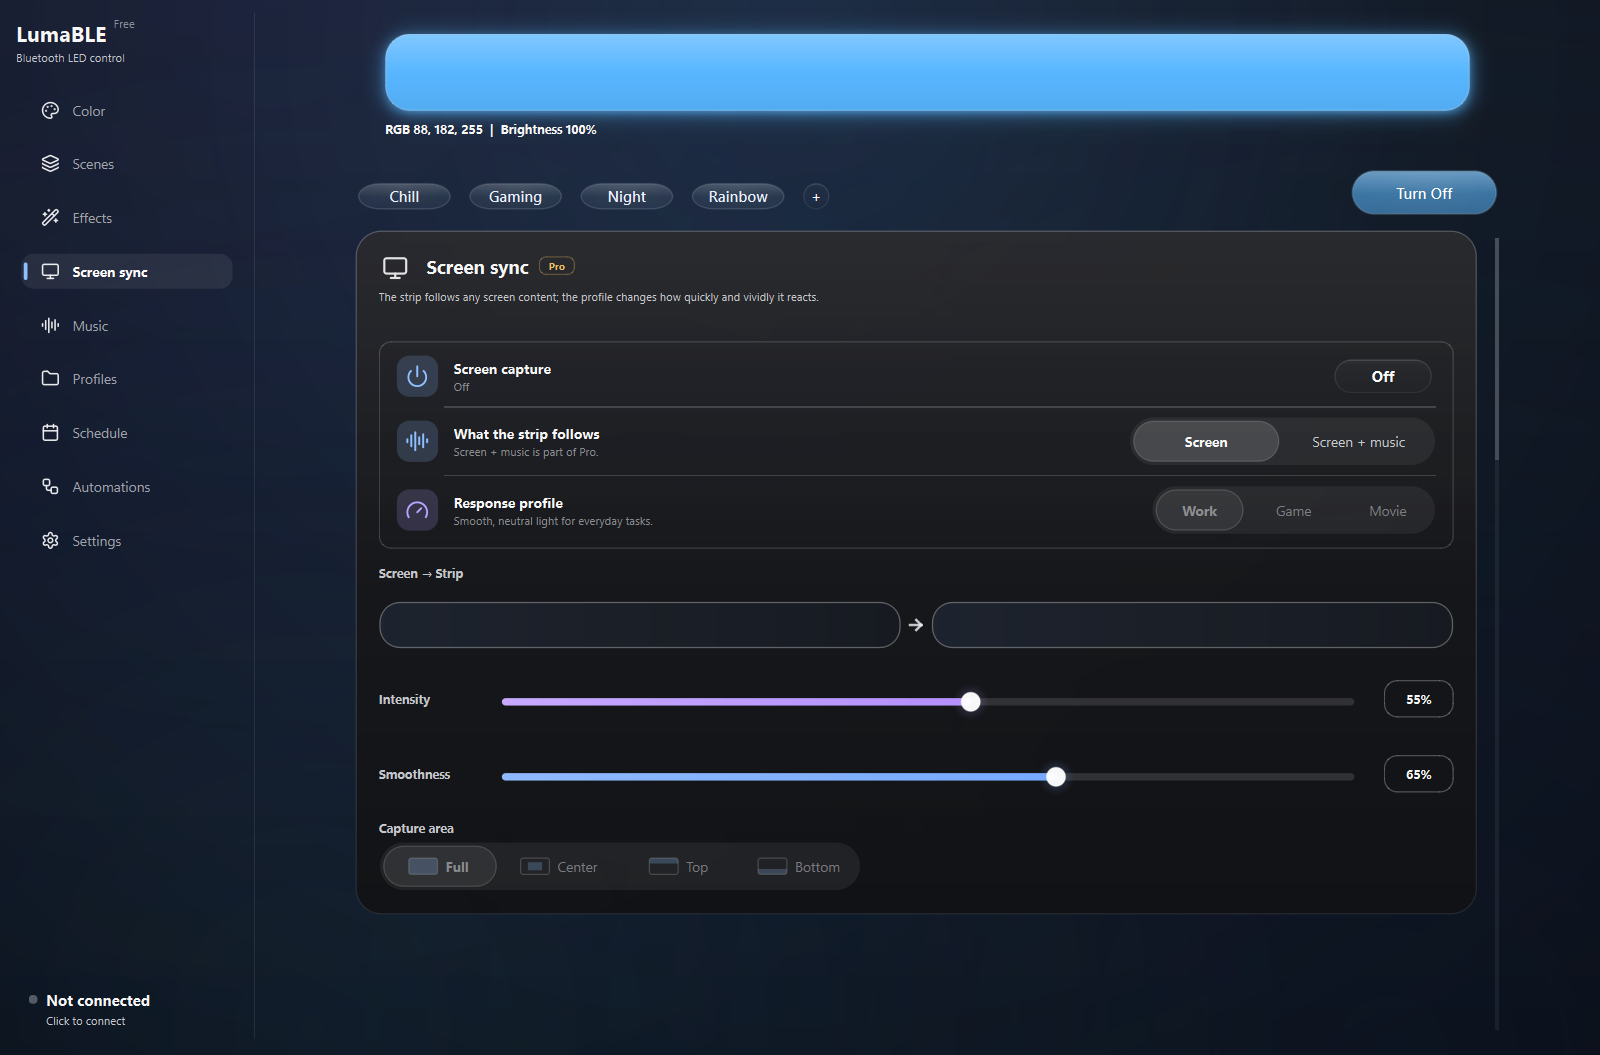
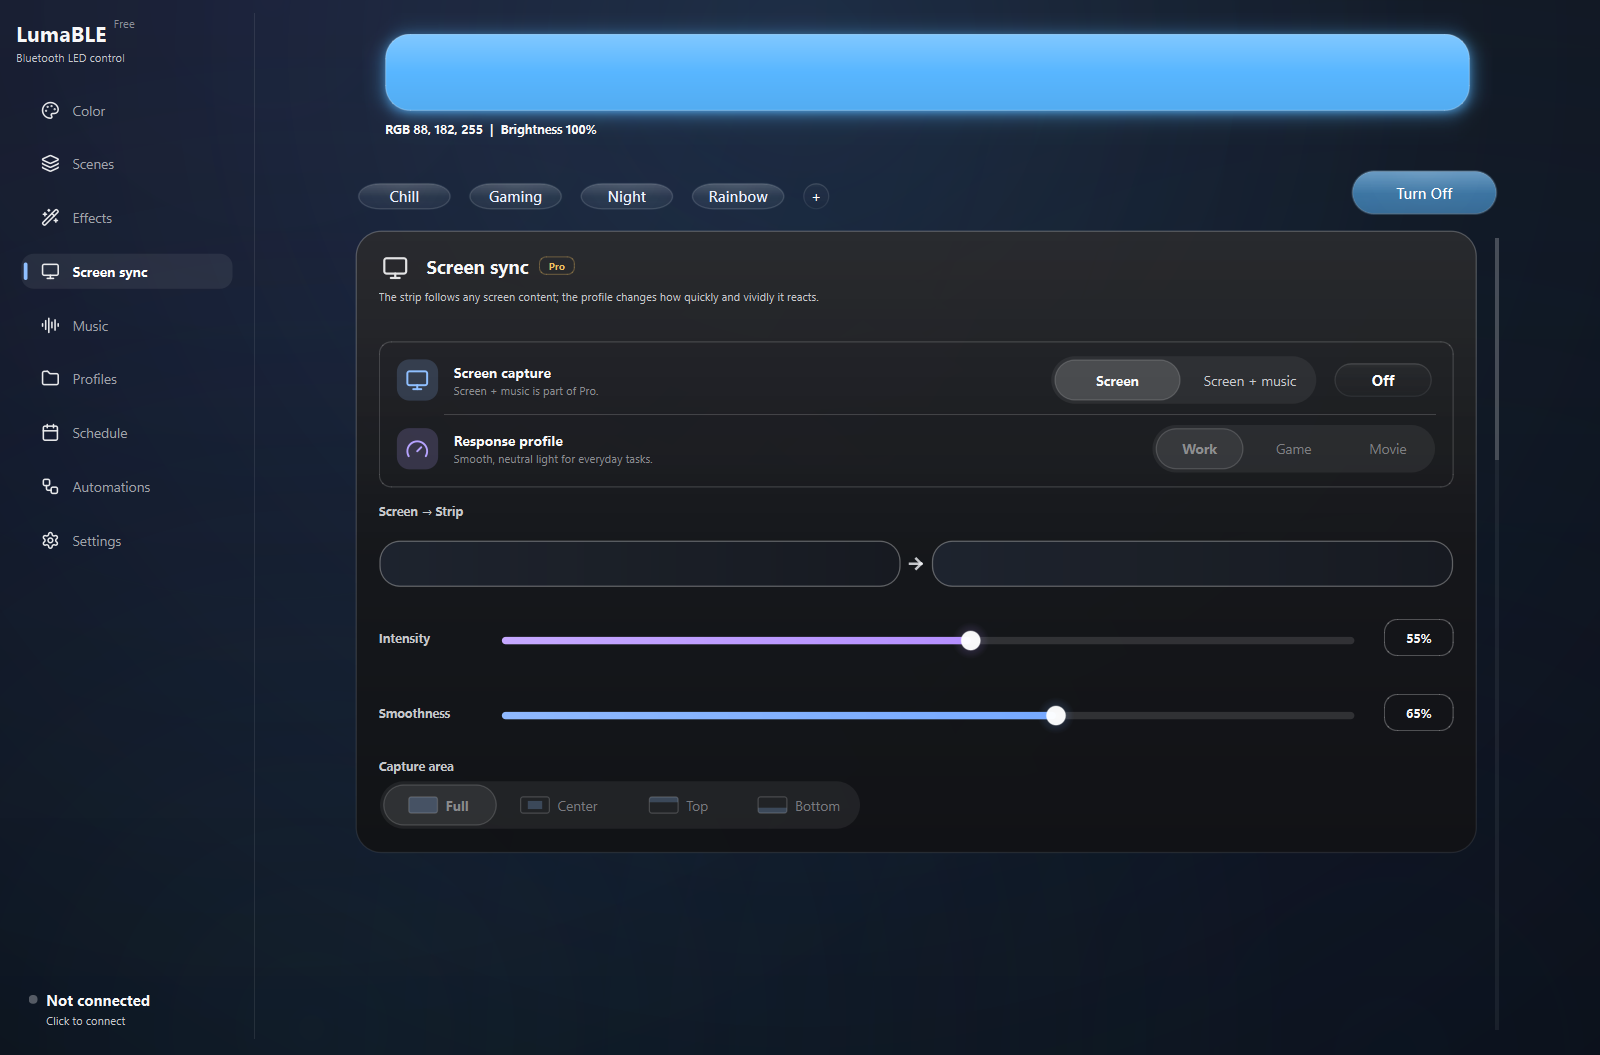
0.4.0 Fusion: keep the diagnostics block in one language
The Fusion lines were English while their yes/no came from the interface
language, so a Russian install produced 'running: да' under English labels. A
report is pasted into an issue and read by whoever answers it.

diff --git a/app/diagnostics.py b/app/diagnostics.py
@@ -254,16 +254,23 @@ def _fusion_section(fusion: dict[str, Any] | None) -> list[str]:
     """
     if not fusion or not (fusion.get("running") or fusion.get("errors")):
         return []
+
+    def flag(value: object) -> str:
+        # English, like the Live Sync and Music Sync blocks above. A report is
+        # pasted into an issue and read by whoever answers it, so its numbers
+        # and their labels stay in one language regardless of the interface.
+        return "yes" if value else "no"
+
     lines = [
         "",
         "Fusion",
         f"mode: {fusion.get('mode', '-')}",
-        f"running: {_yes_no(fusion.get('running'))}",
+        f"running: {flag(fusion.get('running'))}",
         f"last frame: {fusion.get('frame_reason', '-')}",
         f"strip brightness: {fusion.get('strip_brightness', '-')}",
         f"fusion brightness factor: {fusion.get('brightness_factor', '-')}",
         f"music activity: {fusion.get('music_activity', '-')}",
-        f"music stale: {_yes_no(fusion.get('music_stale'))}",
+        f"music stale: {flag(fusion.get('music_stale'))}",
         f"stream errors: {int(fusion.get('errors', 0) or 0)}",
     ]
     dropped_screen = int(fusion.get("dropped_screen_samples", 0) or 0)
